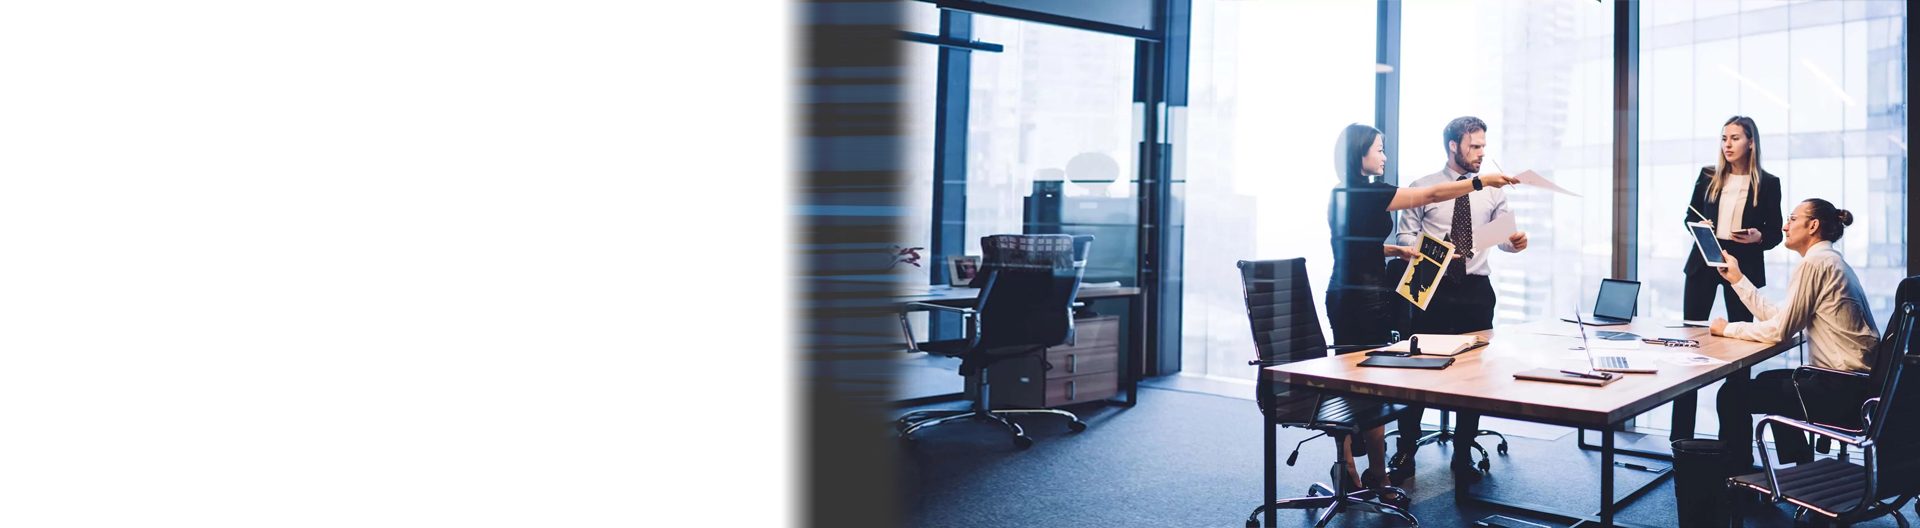
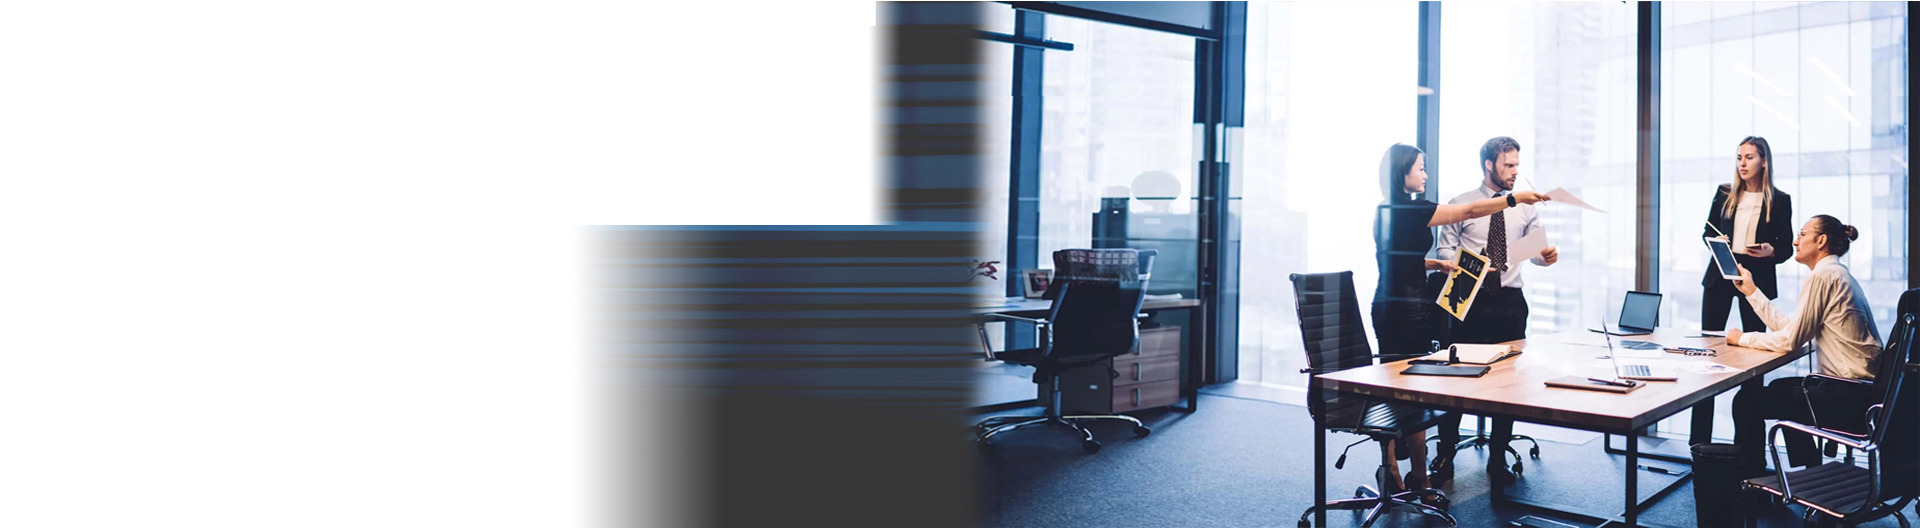
Add files via upload

diff --git a/index-1.html b/index-1.html
@@ -474,7 +474,7 @@
 				<div class="position-absolute top-0 left-0 right-0 bottom-0 animated fadeIn"
 					style="animation-delay: 600ms;">
 					<div class="background-image-wrapper custom-background-style-1 position-absolute top-0 left-0 right-0 bottom-0 animated kenBurnsToRight"
-						style="background-image: url(images/background-1.jpg); background-position: center right; animation-duration: 30s;">
+						style="background-image: url(images/background-3.jpg); background-position: center right; animation-duration: 30s;">
 					</div>
 				</div>
 				<div class="container position-relative py-sm-5 my-5">
@@ -631,7 +631,7 @@
 				</div>
 			</div>
 
-			<section class="section custom-bg-color-grey-1 custom-background-size-1 position-relative overflow-hidden border-0 m-0" data-plugin-parallax data-plugin-options="{'speed': 1.5, 'parallaxHeight': '130%', 'fadeIn': true}" data-image-src="images/background-2-2.jpg">
+			<section class="section custom-bg-color-grey-1 custom-background-size-1 position-relative overflow-hidden border-0 m-0" data-plugin-parallax data-plugin-options="{'speed': 1.5, 'parallaxHeight': '130%', 'fadeIn': true}" data-image-src="images/background-2.jpg">
 				<svg class="custom-svg-background-1" version="1.1" xmlns="http://www.w3.org/2000/svg" xmlns:xlink="http://www.w3.org/1999/xlink" x="0px" y="0px" viewBox="0 0 1920 537" data-appear-animation-svg="true">
 					<path fill="#F4F4F4" d="M964.33,189.3L1110.08,0H0v537h1338.31L972.96,255.7C952.24,239.74,948.38,210.02,964.33,189.3z"/>
 					<path class="appear-animation svg-stroke-color-primary" data-appear-animation="customLineAnim2" data-appear-animation-delay="500" data-appear-animation-duration="5s" data-plugin-options="{'accY': -400}" fill="none" stroke-width="2" stroke-miterlimit="10" d="M1854.35,105.63l-485.31-340.84c-18.3-12.85-43.56-8.44-56.42,9.86L971.79,259.96
@@ -1063,26 +1063,26 @@
 					<div class="row">
 						<div class="col-6 col-md-3 px-0">
 							<a class="d-inline-block custom-img-thumbnail-style-1 img-thumbnail img-thumbnail-no-borders img-thumbnail-hover-icon rounded-0"
-								href="./images/1.png">
-								<img class="img-fluid rounded-0" src="./images/1.png" alt="">
+								href="./images/1-2.png">
+								<img class="img-fluid rounded-0" src="./images/1-2.png" alt="">
 							</a>
 						</div>
 						<div class="col-6 col-md-3 px-0">
 							<a class="d-inline-block custom-img-thumbnail-style-1 img-thumbnail img-thumbnail-no-borders img-thumbnail-hover-icon rounded-0"
-								href="./images/2.png">
-								<img class="img-fluid rounded-0" src="./images/2.png" alt="">
+								href="./images/2-2.png">
+								<img class="img-fluid rounded-0" src="./images/2-2.png" alt="">
 							</a>
 						</div>
 						<div class="col-6 col-md-3 px-0">
 							<a class="d-inline-block custom-img-thumbnail-style-1 img-thumbnail img-thumbnail-no-borders img-thumbnail-hover-icon rounded-0"
-								href="./images/4.png">
-								<img class="img-fluid rounded-0" src="./images/4.png" alt="">
+								href="./images/4-2.png">
+								<img class="img-fluid rounded-0" src="./images/4-2.png" alt="">
 							</a>
 						</div>
 						<div class="col-6 col-md-3 px-0">
 							<a class="d-inline-block custom-img-thumbnail-style-1 img-thumbnail img-thumbnail-no-borders img-thumbnail-hover-icon rounded-0"
-								href="./images/3.png">
-								<img class="img-fluid rounded-0" src="./images/3.png" alt="">
+								href="./images/3-2.png">
+								<img class="img-fluid rounded-0" src="./images/3-2.png" alt="">
 							</a>
 						</div>
 					</div>
